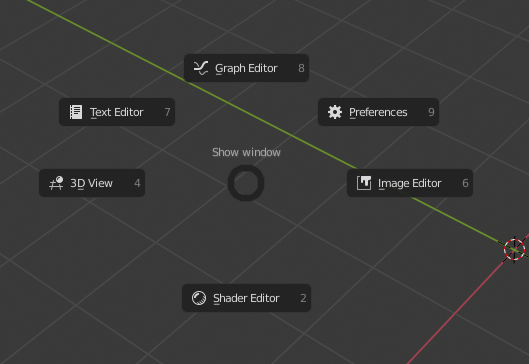
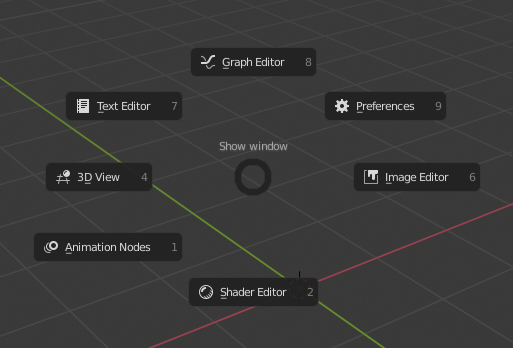
updated screenshot with animation nodes

diff --git a/docs/index.html b/docs/index.html
@@ -175,5 +175,5 @@ You may need to reload <em>DuViews</em> if you have enabled <em>Animation Nodes<
 
 <!--
 MkDocs version : 1.0.4
-Build Date UTC : 2019-10-20 15:21:08
+Build Date UTC : 2019-10-20 15:50:07
 -->
